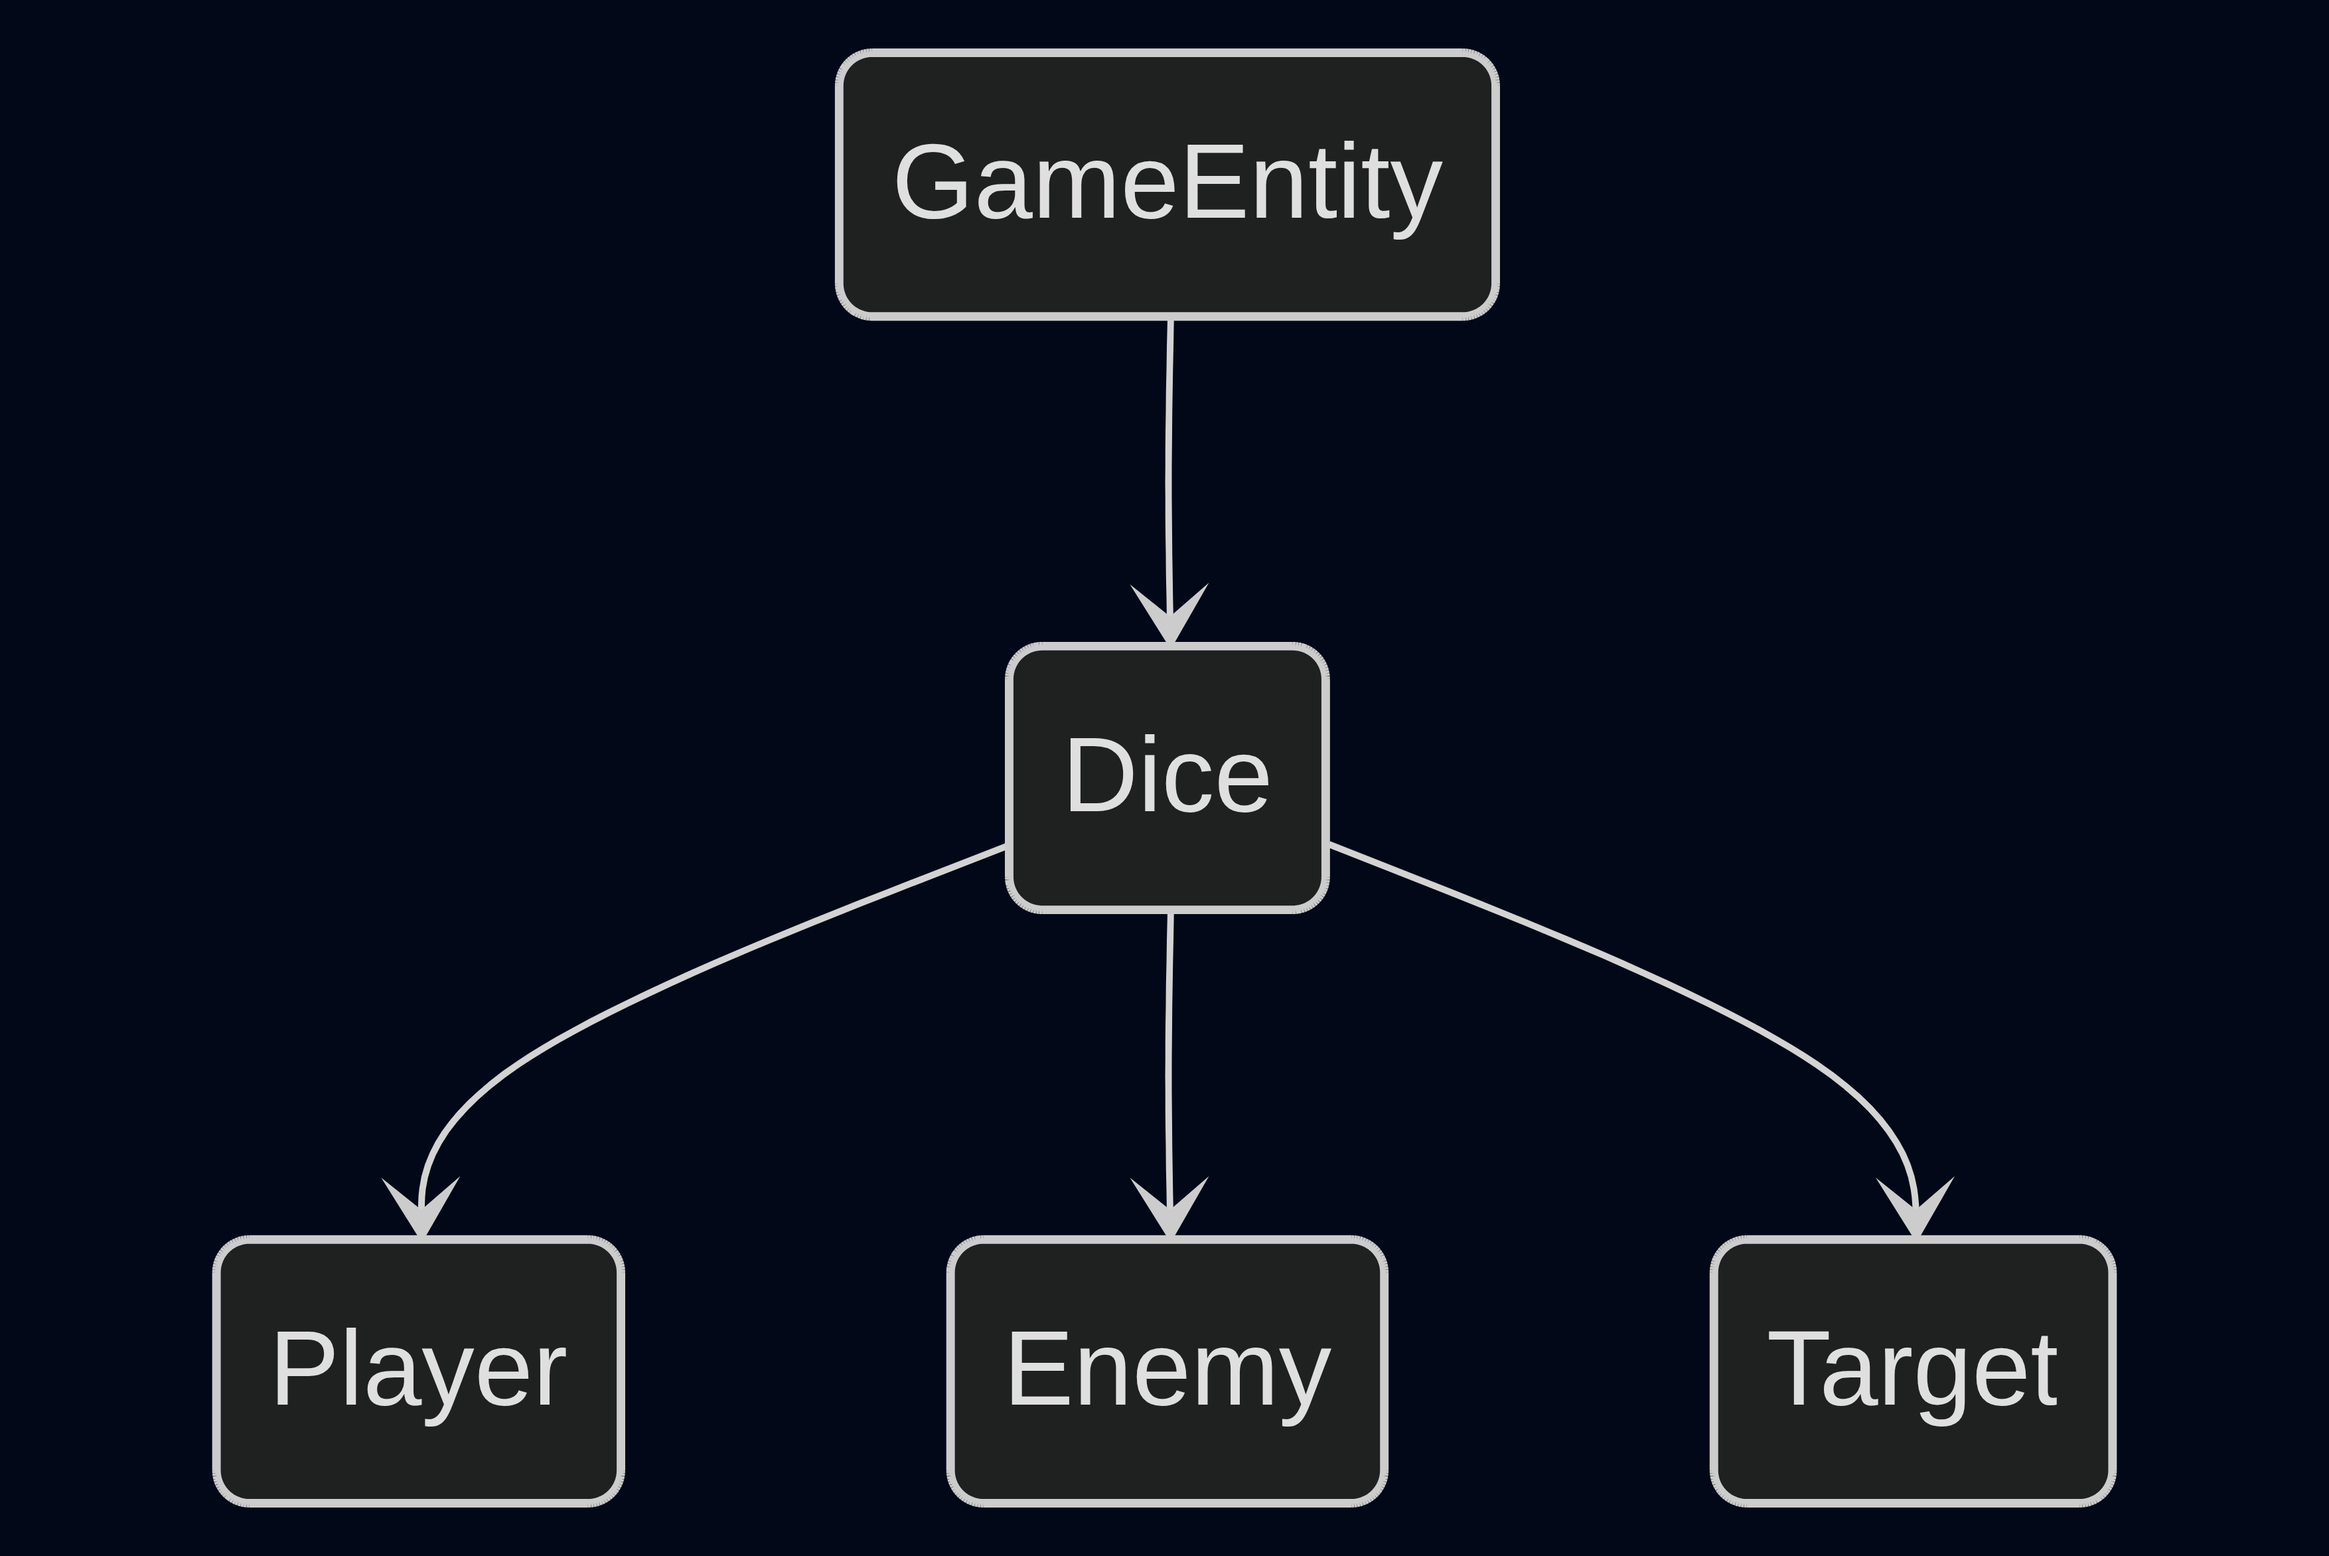
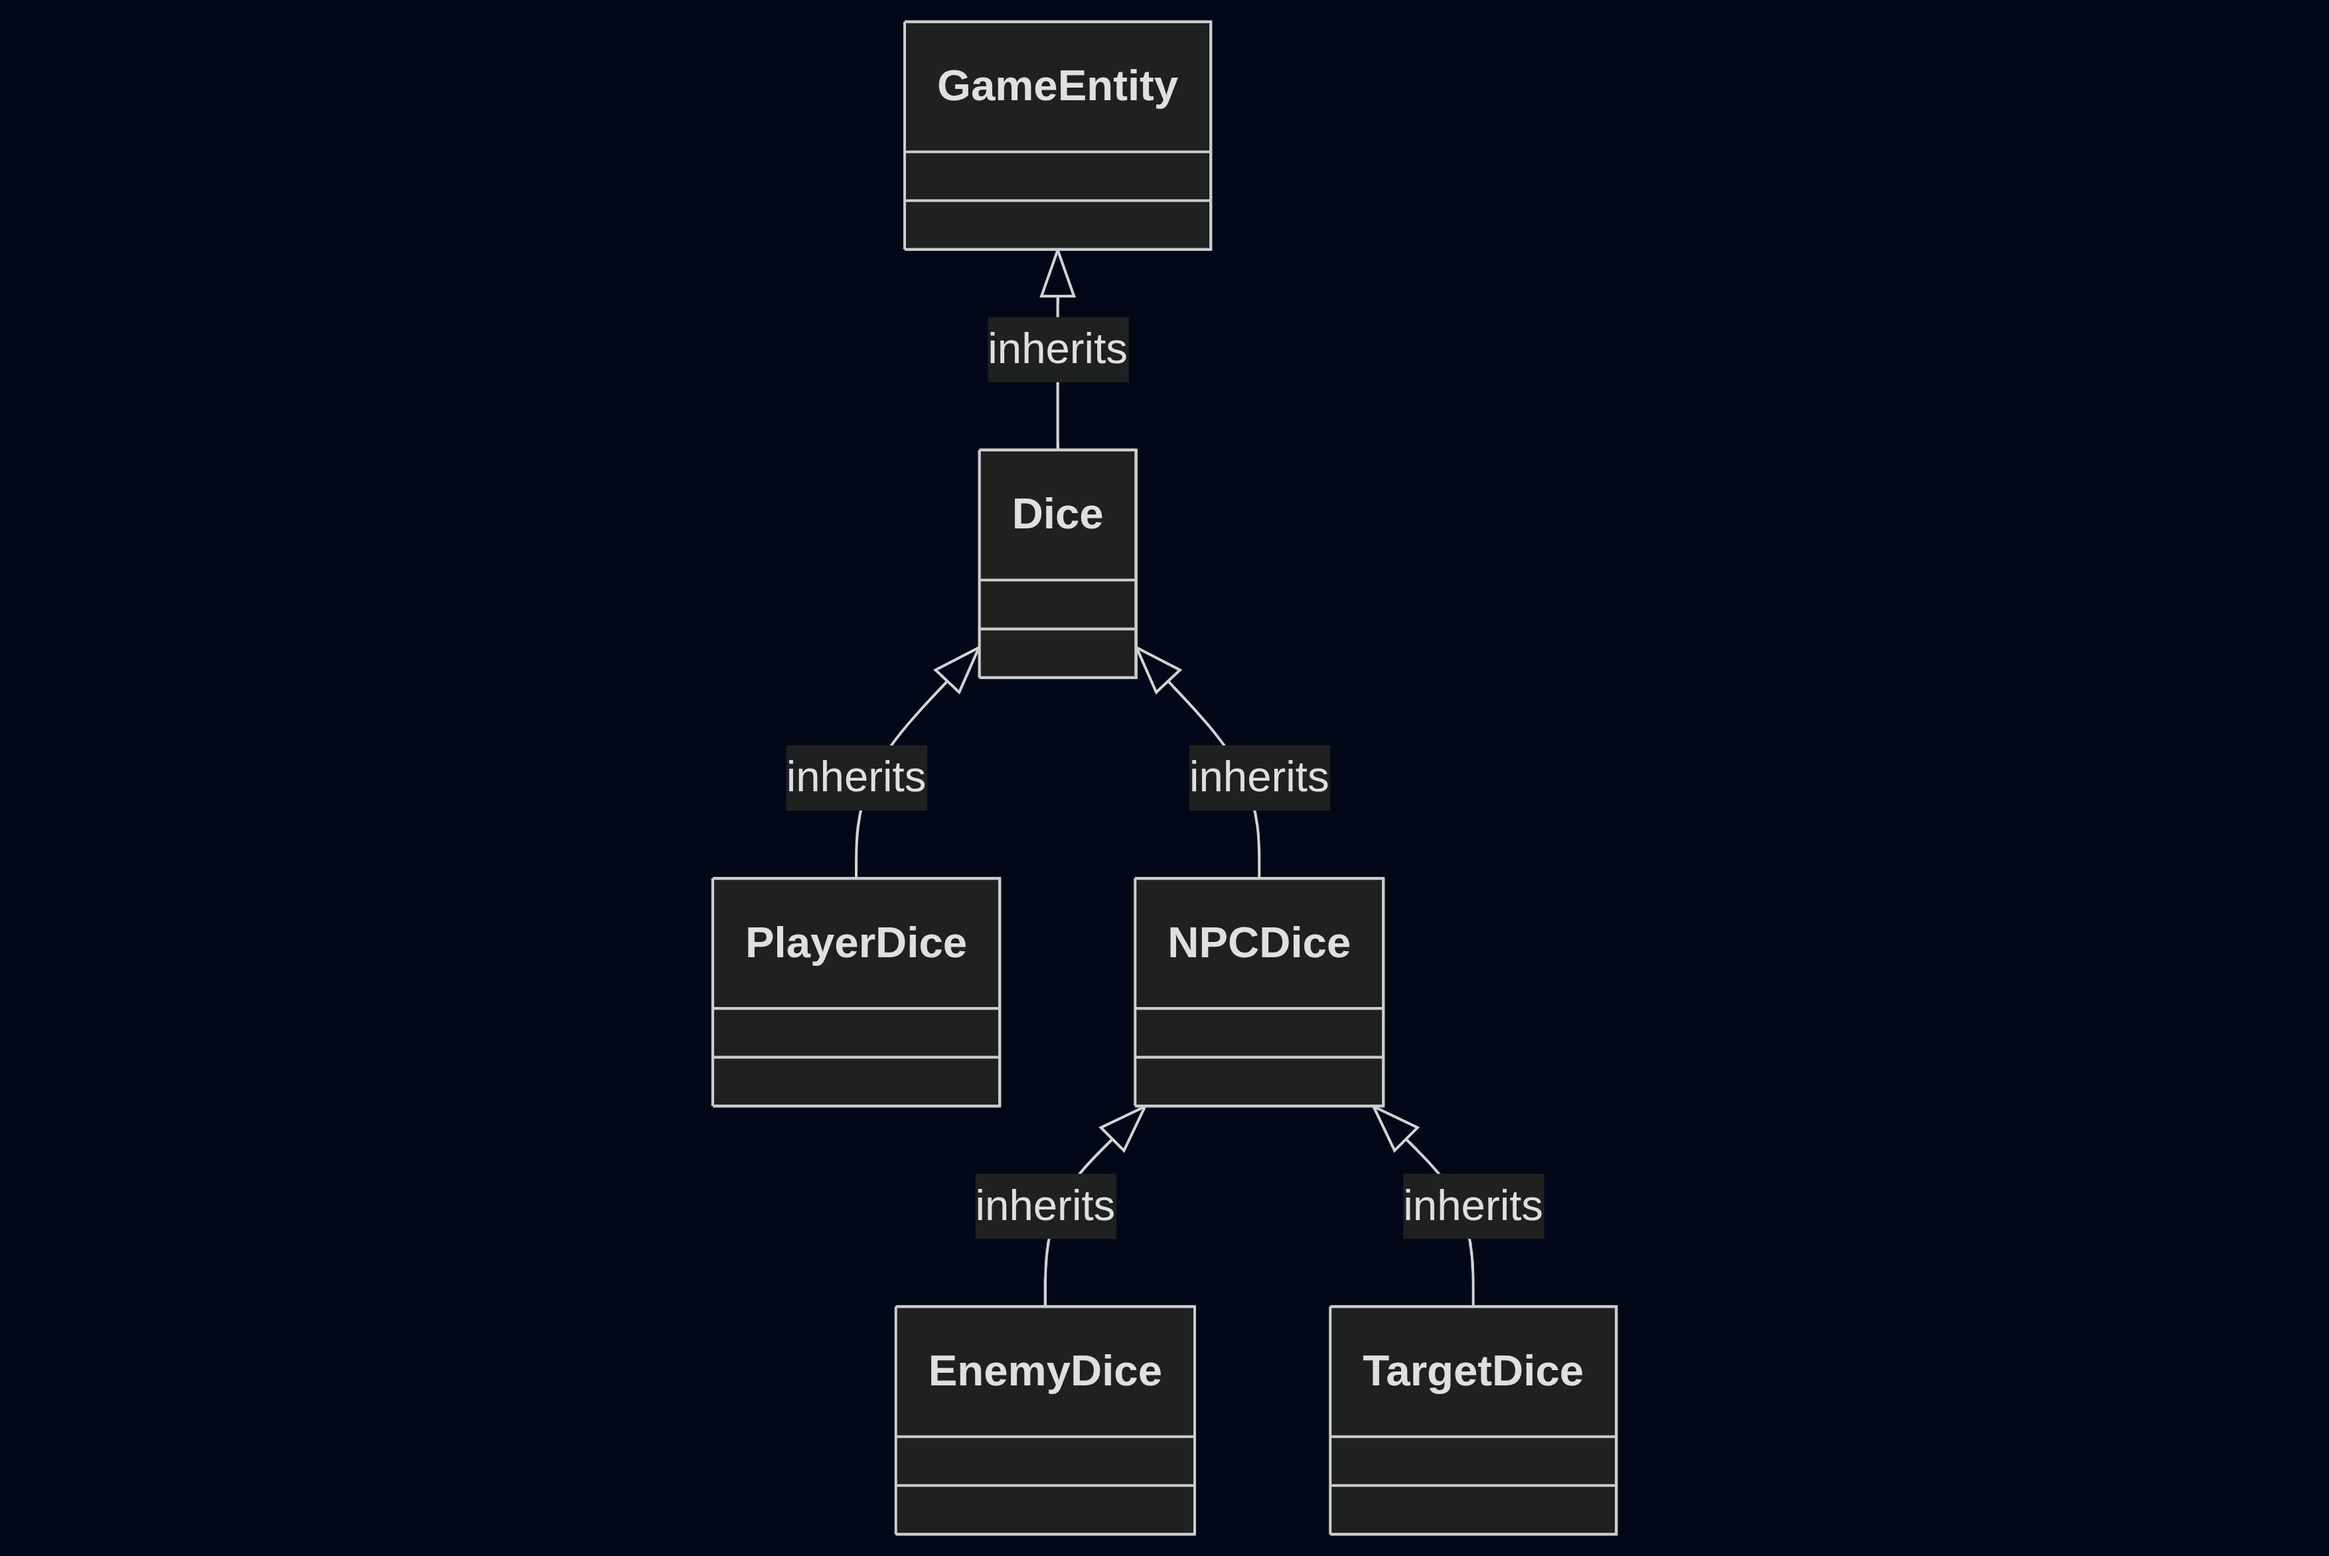
Added and redid diagrams. Updated README.

diff --git a/README.md b/README.md
@@ -44,23 +44,31 @@ Finalizing the increase of difficulty is the Final 3. Levels 7, 8, 9, is where D
 
 ### 🤖 State Diagram
 
-#### Game State Diagram
+#### Scene State Diagram
 
-![Game State Diagram](./Game/Content/Images/Diagrams/GamePlayStateDiagram.png)
+![Scene State Diagram](./Game/Content/Images/Diagrams/SceneStateDiagram.png)
 
 #### Dice State Diagram
 
 ![Dice State Diagram](./Game/Content/Images/Diagrams/DiceStateDiagram.png)
 
-#### Player Dice State Diagram
-
-![Player Dice State Diagram](./Game/Content/Images/Diagrams/PlayerDiceStateDiagram.png)
-
 ### 🗺 Class Diagram
+
+#### Scene Class Diagram
+
+![Scene Class Diagram](./Game/Content/Images/Diagrams/SceneClassDiagram.png)
+
+#### State Class Diagram
+
+![State Class Diagram](./Game/Content/Images/Diagrams/StateClassDiagram.png)
 
 #### Dice Class Diagram
 
 ![Dice Class Diagram](./Game/Content/Images/Diagrams/DiceClassDiagram.png)
+
+#### Settings Class Diagram
+
+![Settings Class Diagram](./Game/Content/Images/Diagrams/SettingsClassDiagram.png)
 
 ### 🧵 Wireframes
 
@@ -70,6 +78,24 @@ Finalizing the increase of difficulty is the Final 3. Levels 7, 8, 9, is where D
 
 - **Play**: will start the game.
 - **Settings**: will allow the player to ajust their settings before the game starts.
+- **Quit**: will exit the game nicely :D
+
+#### Pause Menu
+
+![Pause Menu](./Game/Content/Images/Wireframes/PauseMenu.png)
+
+- **Audio**: slider to adjust the audio.
+- **Graphics**: will allow the player to ajust their graphics.
+- **Controls**: allows the player to ajust their controls.
+- **Save**: will save changes to settings.
+- **Back**: will exit settings.
+
+#### Settings
+
+![Pause Menu](./Game/Content/Images/Wireframes/Settings.png)
+
+- **Resume**: will resume the game.
+- **Settings**: will allow the player to ajust their settings during the game.
 - **Quit**: will exit the game nicely :D
 
 #### Game Over (You lose)
@@ -163,3 +189,9 @@ For fonts, I'm using a copyright free font (has a liscence permitting the use of
 #### 🔊 Sounds
 
 I've not decided if I will be making all the music or not. Sound Effects will be made by me. This section will be updated appropriately.
+
+#### 📚 Libraries
+
+I'm using the [Monogame](https://docs.monogame.net/articles/index.html) library to help with general game stuff, such as running the game, dealing with graphics, and providing data types such as Vector2.
+
+I'm also using [Pleasing](https://github.com/franknorton/Pleasing) for tweening and easing, since it would take way too long to implement a fully indepth one needed for this game.
